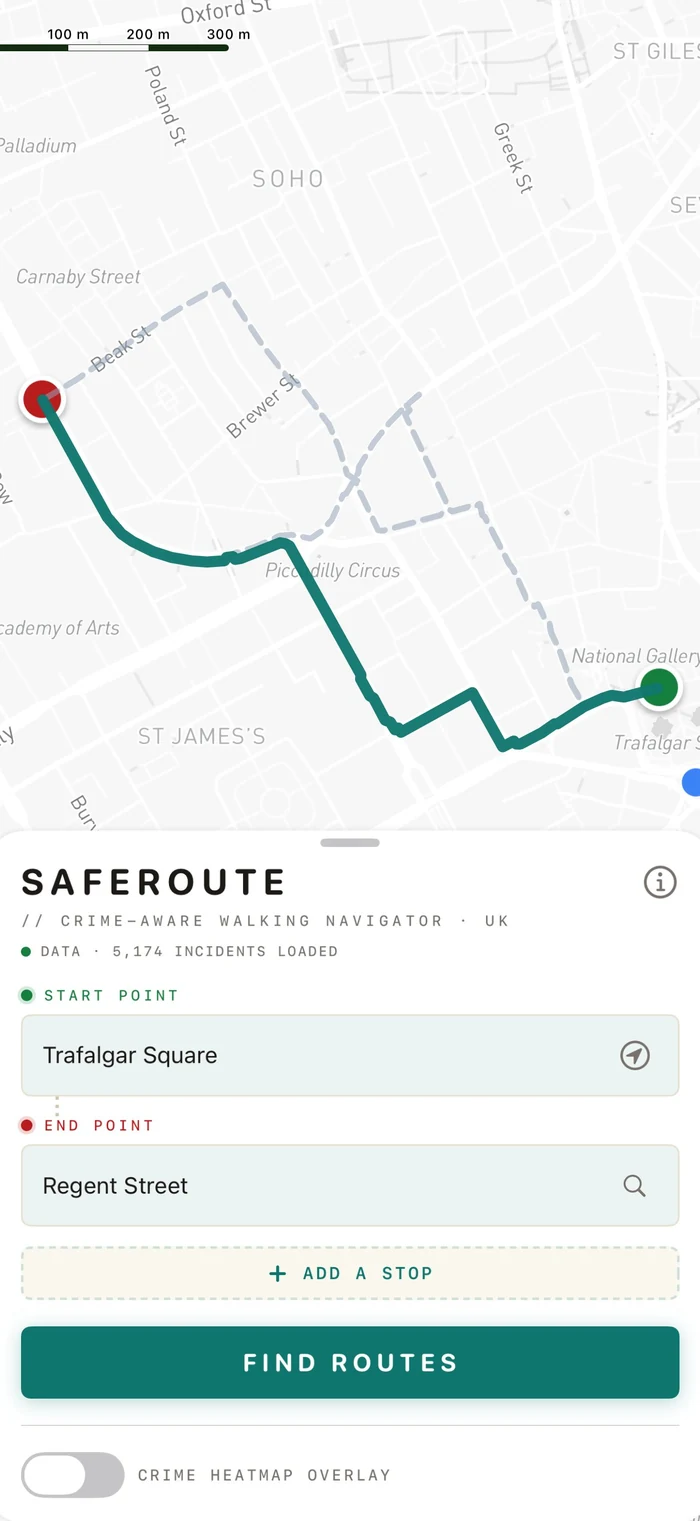
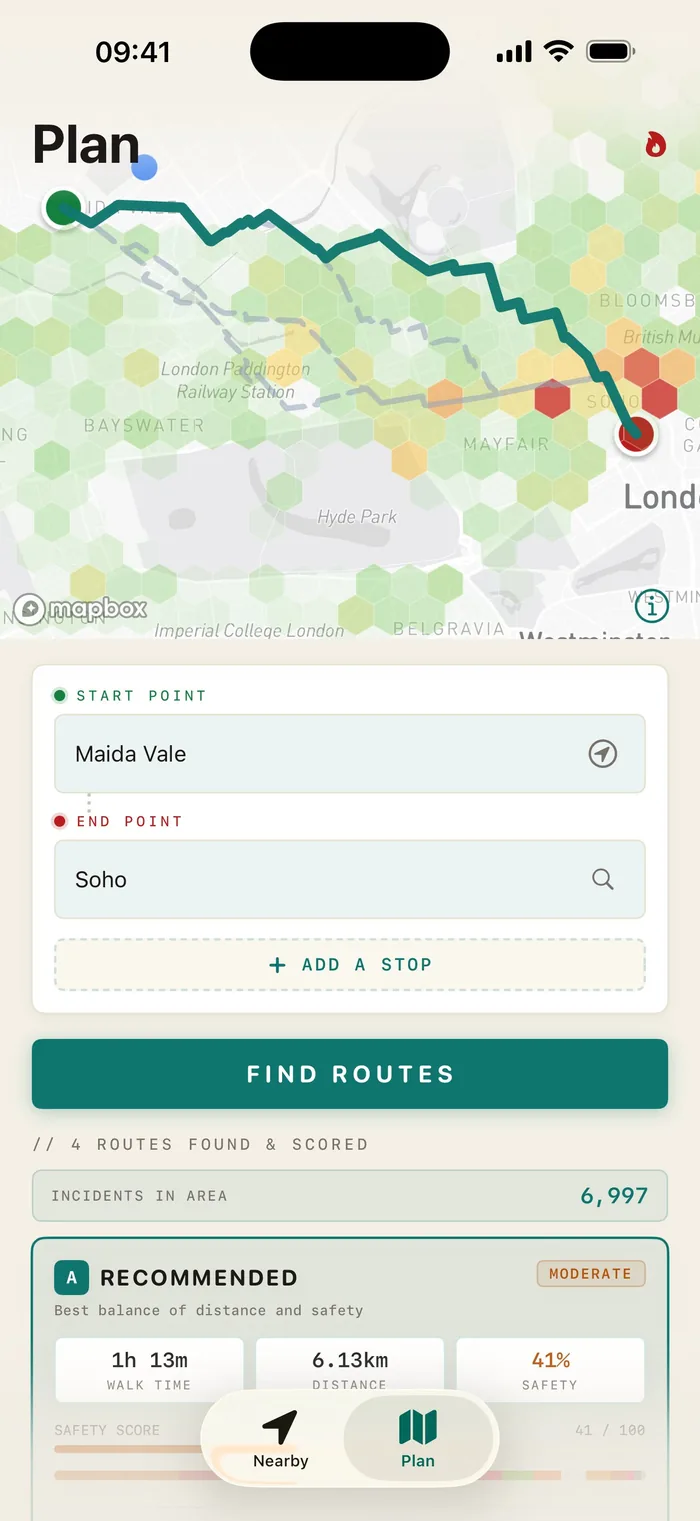
Add Nearby tab + Area Safety widget; refresh screenshots and copy for 1.0.2

diff --git a/index.html b/index.html
@@ -4,11 +4,11 @@
 <meta charset="UTF-8">
 <meta name="viewport" content="width=device-width, initial-scale=1.0">
 <title>SafeRoute — Crime-aware walking navigation for the UK</title>
-<meta name="description" content="SafeRoute reads live UK police crime data, scores every walking route by real risk, and guides you along the safer one. No accounts. No tracking. Now available on the App Store.">
+<meta name="description" content="SafeRoute reads live UK police crime data — check how safe any area is in a tap, plan a walking route scored by real risk, and share your walk. No accounts. No tracking. Free on the App Store.">
 
 <!-- Open Graph / social preview -->
 <meta property="og:title" content="SafeRoute — Crime-aware walking navigation for the UK">
-<meta property="og:description" content="The walk home, scored street by street. Live police data, a transparent safety score, and a route around the worst of it.">
+<meta property="og:description" content="Check how safe any area is in a tap, plan a route scored street by street, and share your walk. Live UK police data, a transparent safety score. No accounts, no tracking.">
 <meta property="og:type" content="website">
 <!-- og:image — add a 1200x630 preview image to assets/ and uncomment:
 <meta property="og:image" content="https://YOUR-GITHUB-PAGES-URL/assets/og-preview.png"> -->
@@ -219,6 +219,7 @@
   }
   .strip-in b{color:var(--ink);font-weight:600}
   .strip-in .dot{color:var(--green)}
+  .strip.a11y{margin-top:0;border-top:0}
 
   /* ---- section scaffold ---- */
   .sec{padding:clamp(58px,9vw,116px) 0}
@@ -412,9 +413,9 @@
           The walk home,<br><span class="u">scored</span> street by street.
         </h1>
         <p class="lead reveal" style="--i:2">
-          SafeRoute reads live UK police crime data, scores every walking
-          route by real risk — severity, proximity, time of day — and guides
-          you along the safer one. No accounts. No tracking.
+          SafeRoute reads live UK police crime data. Check how safe any area is
+          in a tap, plan a route scored by real risk — severity, proximity, time
+          of day — and walk the safer one. No accounts. No tracking.
         </p>
 
         <a class="appstore-btn reveal" style="--i:3" href="https://apps.apple.com/gb/app/uk-saferoute/id6768244297">
@@ -459,11 +460,52 @@
   </div>
 </div>
 
-<!-- ============ 01 · THE WEDGE ============ -->
+<!-- ============ 01 · NEARBY ============ -->
+<section class="sec">
+  <div class="wrap">
+    <div class="feat">
+      <div class="feat-media reveal">
+        <div class="duo">
+          <figure class="figure">
+            <img src="assets/nearby-area.webp" alt="SafeRoute Nearby tab showing a 30 out of 100 area safety score for the City of Westminster, a crime heatmap and what's reported nearby" loading="lazy" width="700" height="1521">
+            <figcaption class="figcap"><span>NEARBY — AREA</span></figcaption>
+          </figure>
+          <figure class="figure">
+            <img src="assets/nearby-spaces.webp" alt="SafeRoute Nearby tab showing safe spaces nearby — 24-hour shops, a hospital and police stations — with a time-of-day risk chart" loading="lazy" width="700" height="1521">
+            <figcaption class="figcap"><span>NEARBY — SAFE SPACES</span></figcaption>
+          </figure>
+        </div>
+      </div>
+      <div class="feat-body reveal">
+        <span class="label"><span class="slash">//</span> 01 — Nearby</span>
+        <h3>Open the app. Read the street.</h3>
+        <p>You don't always want a route — sometimes you just want to know.
+          Open SafeRoute and the Nearby tab shows how safe where you are is
+          right now: a score, a live heatmap, what's actually being reported,
+          and the safe spaces around you.</p>
+        <ul class="feat-list">
+          <li data-n="01"><span><b>Area safety score.</b> A 0–100 read on your
+            current area, with an at-a-glance Low / Moderate / Elevated band.</span></li>
+          <li data-n="02"><span><b>What's reported here.</b> The real category
+            mix nearby — violence, anti-social behaviour, burglary and more —
+            from the latest published police data.</span></li>
+          <li data-n="03"><span><b>Safe spaces around you.</b> The closest
+            24-hour shops, hospitals and police stations, with distance — tap
+            one to route straight there.</span></li>
+          <li data-n="04"><span><b>Search any area.</b> Checking somewhere
+            before you go? Search it and read the same breakdown for anywhere
+            in England, Wales or Northern Ireland.</span></li>
+        </ul>
+      </div>
+    </div>
+  </div>
+</section>
+
+<!-- ============ 02 · THE WEDGE ============ -->
 <section class="sec wedge">
   <div class="wrap">
     <div class="sec-head reveal">
-      <span class="label"><span class="slash">//</span> 01 — Why SafeRoute</span>
+      <span class="label"><span class="slash">//</span> 02 — Why SafeRoute</span>
       <h2>Most safety apps stop at the <span class="strike">map pin</span>.</h2>
       <p class="lead">Seeing where crime happened is not the same as knowing
         which way to walk. SafeRoute does the harder part: it turns the data
@@ -493,7 +535,7 @@
 <section class="sec videosec">
   <div class="wrap">
     <div class="sec-head reveal">
-      <span class="label"><span class="slash">//</span> 02 — See it work</span>
+      <span class="label"><span class="slash">//</span> 03 — See it work</span>
       <h2>Thirty seconds, end to end.</h2>
       <p>Plan a route, read the score, share the walk, follow turn-by-turn
         navigation — on iPhone and Apple Watch.</p>
@@ -511,12 +553,12 @@
     <div class="feat">
       <div class="feat-media reveal">
         <figure class="figure">
-          <img src="assets/scoring.webp" alt="SafeRoute safety score breakdown showing 48 out of 100, a crime category breakdown, and time-of-day risk" loading="lazy" width="700" height="1521">
-          <figcaption class="figcap"><span>FIG.02 — SAFETY SCORE</span><span>48 / 100</span></figcaption>
+          <img src="assets/scoring.webp" alt="SafeRoute recommended route showing a 41 out of 100 safety score, a crime category breakdown within 150m, and time-of-day risk" loading="lazy" width="700" height="1521">
+          <figcaption class="figcap"><span>FIG.02 — SAFETY SCORE</span><span>41 / 100</span></figcaption>
         </figure>
       </div>
       <div class="feat-body reveal">
-        <span class="label"><span class="slash">//</span> 03 — Transparent scoring</span>
+        <span class="label"><span class="slash">//</span> 04 — Transparent scoring</span>
         <h3>A score you can interrogate, not just trust.</h3>
         <p>Every route shows a 0–100 safety score with the full breakdown
           underneath: how many incidents are nearby, what kind, and how each
@@ -542,12 +584,12 @@
     <div class="feat flip">
       <div class="feat-media reveal">
         <figure class="figure">
-          <img src="assets/route-plain.webp" alt="SafeRoute route view from Trafalgar Square to Regent Street with 5,174 incidents loaded" loading="lazy" width="700" height="1521">
-          <figcaption class="figcap"><span>FIG.03 — ROUTE VIEW</span><span>5,174 INCIDENTS</span></figcaption>
+          <img src="assets/route-plain.webp" alt="SafeRoute route planner from Maida Vale to Soho with four routes found and scored over a crime heatmap, 6,997 incidents in the area" loading="lazy" width="700" height="1521">
+          <figcaption class="figcap"><span>FIG.03 — ROUTE VIEW</span><span>6,997 INCIDENTS</span></figcaption>
         </figure>
       </div>
       <div class="feat-body reveal">
-        <span class="label"><span class="slash">//</span> 04 — Crime heatmap</span>
+        <span class="label"><span class="slash">//</span> 05 — Crime heatmap</span>
         <h3>The data, on the map, whenever you want it.</h3>
         <p>Plan from anywhere in England, Wales or Northern Ireland. Add
           stops, swap start and end, and flip on the crime heatmap overlay to
@@ -577,7 +619,7 @@
         </figure>
       </div>
       <div class="feat-body reveal">
-        <span class="label"><span class="slash">//</span> 05 — Share my walk</span>
+        <span class="label"><span class="slash">//</span> 06 — Share my walk</span>
         <h3>Let someone watch you get home — and nothing more.</h3>
         <p>Send a trusted person a link. They see you reach your destination,
           then the link expires. No app for them to install, no account for
@@ -596,7 +638,37 @@
   </div>
 </section>
 
-<!-- ============ 06 · WATCH + LIVE ACTIVITY ============ -->
+<!-- ============ 07 · AREA SAFETY WIDGET ============ -->
+<section class="sec">
+  <div class="wrap">
+    <div class="feat flip">
+      <div class="feat-media reveal">
+        <figure class="figure">
+          <img src="assets/widget-iphone.webp" alt="iPhone Home Screen with the SafeRoute Area Safety widget showing an Elevated 30 out of 100 score and 466 incidents within 1 km" loading="lazy" width="700" height="1521">
+          <figcaption class="figcap"><span>FIG.07 — AREA SAFETY WIDGET</span><span>HOME SCREEN</span></figcaption>
+        </figure>
+      </div>
+      <div class="feat-body reveal">
+        <span class="label"><span class="slash">//</span> 07 — Area Safety widget</span>
+        <h3>Your area's score, on your Home Screen.</h3>
+        <p>Add the Area Safety widget to your Home Screen or Lock Screen and the
+          score is there before you even open the app — a glance tells you
+          whether tonight's a normal night or one to stay switched on for.</p>
+        <ul class="feat-list">
+          <li data-n="01"><span><b>Home &amp; Lock Screen.</b> Pick the size that
+            fits; the score sits quietly alongside your other widgets.</span></li>
+          <li data-n="02"><span><b>At-a-glance read.</b> The safety band, the
+            incident count and the force the data comes from — refreshed
+            through the day.</span></li>
+          <li data-n="03"><span><b>Tap to dive in.</b> One tap opens the full
+            Nearby breakdown for wherever you are.</span></li>
+        </ul>
+      </div>
+    </div>
+  </div>
+</section>
+
+<!-- ============ 08 · WATCH + LIVE ACTIVITY ============ -->
 <section class="sec">
   <div class="wrap">
     <div class="feat flip">
@@ -613,7 +685,7 @@
         </div>
       </div>
       <div class="feat-body reveal">
-        <span class="label"><span class="slash">//</span> 06 — Apple Watch &amp; Live Activity</span>
+        <span class="label"><span class="slash">//</span> 08 — Apple Watch &amp; Live Activity</span>
         <h3>On your wrist, on your lock screen, phone in your pocket.</h3>
         <p>SafeRoute is built natively for Apple Watch and uses Live
           Activities, so the next direction is a glance away — you don't have
@@ -648,7 +720,7 @@
         </div>
       </div>
       <div class="feat-body reveal">
-        <span class="label"><span class="slash">//</span> 07 — If something feels wrong</span>
+        <span class="label"><span class="slash">//</span> 09 — If something feels wrong</span>
         <h3>The nearest open door, one tap away.</h3>
         <p>If a walk stops feeling right, SafeRoute surfaces the closest
           24-hour places that can help — shops, police, hospitals — alongside
@@ -667,23 +739,23 @@
   </div>
 </section>
 
-<!-- ============ 08 · IPAD SHOWCASE ============ -->
+<!-- ============ 10 · IPAD SHOWCASE ============ -->
 <section class="sec ipadsec">
   <div class="wrap">
     <div class="sec-head reveal">
-      <span class="label"><span class="slash">//</span> 08 — Every screen</span>
+      <span class="label"><span class="slash">//</span> 10 — Every screen</span>
       <h2>Roomier on iPad. Identical underneath.</h2>
-      <p class="lead">The same crime-aware routing, scoring and live
-        navigation — laid out for the bigger display.</p>
+      <p class="lead">The same Nearby checks, crime-aware routing, scoring and
+        live navigation — laid out for the bigger display.</p>
     </div>
     <div class="ipad-strip">
       <figure class="figure reveal">
-        <img src="assets/ipad-planner.webp" alt="SafeRoute route planner on iPad showing the full UK map" loading="lazy" width="1280" height="1707">
-        <figcaption class="figcap"><span>IPAD — PLANNER</span></figcaption>
+        <img src="assets/ipad-nearby.webp" alt="SafeRoute Nearby tab on iPad showing an area safety score, crime heatmap, what's reported and safe spaces nearby" loading="lazy" width="1280" height="1707">
+        <figcaption class="figcap"><span>IPAD — NEARBY</span></figcaption>
       </figure>
       <figure class="figure reveal">
-        <img src="assets/ipad-heatmap.webp" alt="SafeRoute on iPad with a route and crime heatmap across central London" loading="lazy" width="1280" height="1707">
-        <figcaption class="figcap"><span>IPAD — HEATMAP</span></figcaption>
+        <img src="assets/ipad-plan.webp" alt="SafeRoute route planner on iPad with a scored route from Maida Vale to Soho over a crime heatmap" loading="lazy" width="1280" height="1707">
+        <figcaption class="figcap"><span>IPAD — PLAN</span></figcaption>
       </figure>
       <figure class="figure reveal">
         <img src="assets/ipad-nav.webp" alt="SafeRoute 3D navigation on iPad at night" loading="lazy" width="1280" height="1707">
@@ -693,11 +765,23 @@
   </div>
 </section>
 
+<!-- ============ BUILT FOR EVERYONE STRIP ============ -->
+<div class="strip a11y">
+  <div class="strip-in">
+    <span><span class="dot">●</span> <b>Built for everyone</b></span>
+    <span><b>Full Dark Mode</b></span>
+    <span><b>Dynamic Type</b></span>
+    <span><b>VoiceOver</b> throughout</span>
+    <span><b>Reduce Motion</b></span>
+    <span>Recent searches · <b>one-tap Home</b></span>
+  </div>
+</div>
+
 <!-- ============ 09 · PRIVACY ============ -->
 <section class="sec">
   <div class="wrap">
     <div class="sec-head reveal">
-      <span class="label"><span class="slash">//</span> 09 — Privacy by design</span>
+      <span class="label"><span class="slash">//</span> 11 — Privacy by design</span>
       <h2>The safety app that doesn't watch you back.</h2>
       <p class="lead">A tool that tracked your every walk would be its own
         risk. SafeRoute is built so it can't.</p>
@@ -729,7 +813,7 @@
 <section class="sec finalcta">
   <div class="wrap">
     <div class="reveal">
-      <span class="label" style="display:block;margin-bottom:18px"><span class="slash">//</span> 10 — Available now</span>
+      <span class="label" style="display:block;margin-bottom:18px"><span class="slash">//</span> 12 — Available now</span>
       <h2>Walk smarter. Walk safer. Walk home.</h2>
       <p class="lead">SafeRoute is live on the App Store. Free, no accounts, no trackers —
         just the safer route home.</p>
